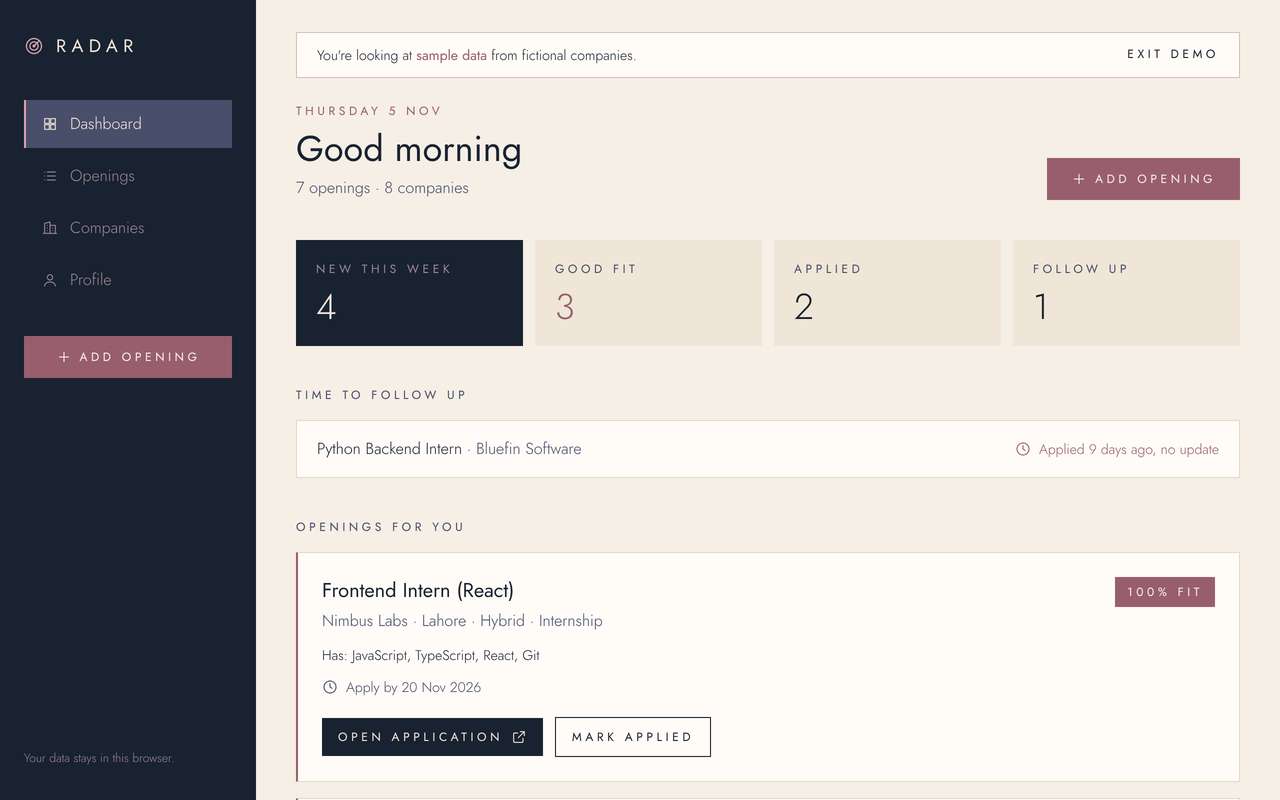
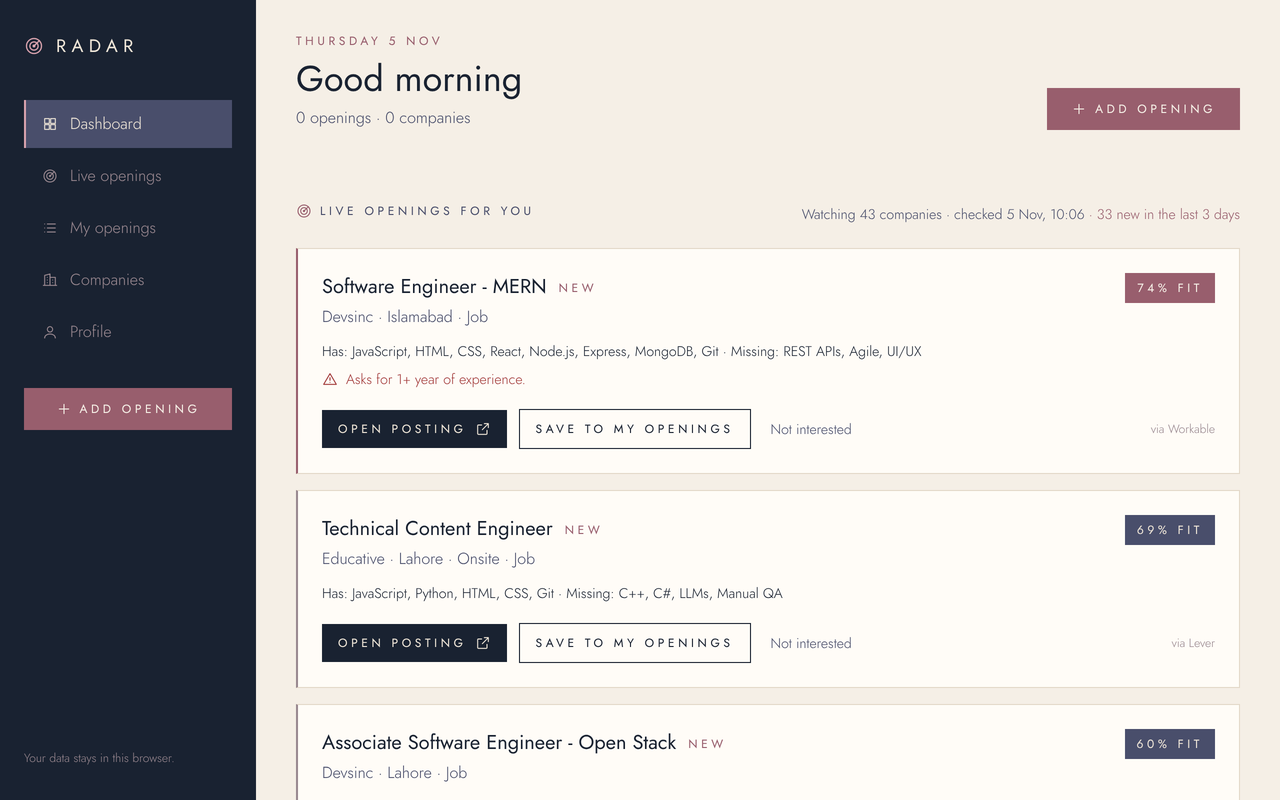
docs: README, home and info pages for live openings; ADR-005; new screenshots
- Home: 'Real openings from Pakistani software houses, and exactly how
  you fit'; See today's openings
- How it works / About describe the watcher, polite checking and limits
- README: what it finds (measured numbers), responsible checking,
  architecture diagram, updated 'deliberately not implemented'
- Dashboard says 'You're tracking N openings' (your tracker, not live)
- Screenshots retaken from the production build with the real feed

diff --git a/src/app/how-it-works/page.tsx b/src/app/how-it-works/page.tsx
@@ -6,20 +6,20 @@ export const metadata = { title: "How it works — Radar" };
 const STEPS = [
   {
     n: "01",
-    title: "Collect",
-    body: "Paste any opening you find: from a company's careers page, an email, or a post someone shared. Radar pulls out the role, internship or job, city, work mode, skills, experience, CGPA, deadline and how to apply.",
-    detail: "Anything the post doesn't say stays empty and shows as “Not stated”. Dates that could mean two things, like 05/11, are flagged for you to check. Image-only ads are saved with their link, and Radar doesn't pretend to read them.",
+    title: "Watch",
+    body: "Every morning at about 6am, Radar visits each software house on its list. When a company publishes its jobs through a hiring platform with an open feed (Workable, Greenhouse, Lever and similar), Radar reads the openings directly: real titles, cities and apply links.",
+    detail: "For companies with a plain careers page, Radar watches the page and tells you when it changes, without guessing what changed. It respects each site's robots.txt, identifies itself honestly, and never touches LinkedIn, Facebook or WhatsApp.",
   },
   {
     n: "02",
     title: "Match",
     body: "Upload your resume once. It's read in your browser, never uploaded, and you confirm the skills it finds. Each opening then gets a fit score with the reasons: what you have, what's missing.",
-    detail: "Eligibility warnings are one line each: graduates only, a minimum CGPA, years of experience, a city you didn't pick. A warning never hides an opening; you decide.",
+    detail: "Eligibility warnings are one line each: graduates only, a minimum CGPA, years of experience, a senior role, a city you didn't pick. A warning never hides an opening; you decide. Found one somewhere else? Paste it and it's scored the same way.",
   },
   {
     n: "03",
     title: "Track",
-    body: "Open the real application or your email app with one click: Radar never applies for you. Then move each opening from Saved to Applied, Interview and Offer or Rejected.",
+    body: "Save the openings you want. Open the real application with one click, since Radar never applies for you, then move each one from Saved to Applied, Interview and Offer or Rejected.",
     detail: "Every change is dated. Notes keep contacts and interview prep together, and Radar nudges you when an application has had no update for a week. Export everything to a spreadsheet at any time.",
   },
 ];
@@ -27,7 +27,7 @@ const STEPS = [
 export default function HowItWorksPage() {
   return (
     <main className="flex flex-1 flex-col">
-      <SiteHero label="How it works" title="Three steps," accent="no scraping, no bots." />
+      <SiteHero label="How it works" title="Three steps," accent="no LinkedIn, no bots applying for you." />
       <section className="flex-1 bg-beige">
         <ol className="mx-auto max-w-6xl divide-y divide-line px-6 sm:px-10">
           {STEPS.map((s) => (
@@ -42,8 +42,8 @@ export default function HowItWorksPage() {
           ))}
         </ol>
         <div className="mx-auto flex max-w-6xl flex-wrap gap-4 px-6 pb-16 sm:px-10">
-          <Link href="/demo" className="label-caps bg-sunset px-8 py-4 text-sand hover:bg-sunset/85">Try the demo</Link>
-          <Link href="/openings/new" className="label-caps border border-evening px-8 py-4 hover:bg-evening hover:text-beige">Add your first opening</Link>
+          <Link href="/live" className="label-caps bg-sunset px-8 py-4 text-sand hover:bg-sunset/85">See today&apos;s openings</Link>
+          <Link href="/profile" className="label-caps border border-evening px-8 py-4 hover:bg-evening hover:text-beige">Upload your resume</Link>
         </div>
       </section>
       <SiteFooter />

diff --git a/src/app/page.tsx b/src/app/page.tsx
@@ -6,8 +6,8 @@ import { ShieldIcon, UploadIcon } from "@/components/icons";
 const STEPS = [
   {
     n: "01",
-    title: "Collect",
-    body: "Paste any opening you find on a company's careers page. Radar pulls out the role, skills, deadline and how to apply.",
+    title: "Watch",
+    body: "Every morning Radar checks Pakistani software houses' public job feeds and careers pages, and tells you what's new or changed.",
   },
   {
     n: "02",
@@ -33,12 +33,12 @@ export default function LandingPage() {
             <div>
               <p className="label-caps text-cloud">For CS students in Pakistan</p>
               <h1 className="mt-6 text-5xl leading-[1.1] font-normal sm:text-6xl">
-                Every opening you find,{" "}
+                Real openings from Pakistani software houses,{" "}
                 <em className="font-accent text-rose">and exactly how you fit.</em>
               </h1>
               <p className="mt-8 max-w-xl text-lg leading-relaxed text-beige/85">
-                Radar reads the internships and jobs you collect from software houses, scores each one against your
-                resume, tells you why, and keeps track of every application.
+                Radar checks software houses every morning, scores each new opening against your resume, tells you
+                why, and keeps track of every application, including ones you find yourself.
               </p>
               <div className="mt-8 flex flex-wrap gap-4">
                 <Link
@@ -48,14 +48,14 @@ export default function LandingPage() {
                   <UploadIcon /> Upload your resume
                 </Link>
                 <Link
-                  href="/demo"
+                  href="/live"
                   className="label-caps inline-flex items-center border border-beige/70 px-8 py-4 transition-colors hover:bg-beige hover:text-evening"
                 >
-                  Try the demo
+                  See today&apos;s openings
                 </Link>
               </div>
               <p className="mt-6 flex items-center gap-2 text-sm text-cloud">
-                <ShieldIcon /> Your resume never leaves your browser. You always apply yourself.
+                <ShieldIcon /> Your resume never leaves your browser. No LinkedIn scraping. You always apply yourself.
               </p>
             </div>
             <RadarGraphic />

diff --git a/src/app/about/page.tsx b/src/app/about/page.tsx
@@ -6,7 +6,7 @@ const PROMISES = [
   ["Your data stays with you", "Your resume, profile and applications are saved in this browser only. There's no account and no server copy. Clear it any time."],
   ["You always apply yourself", "Radar opens the real application or your email app. It never fills in a form or sends anything in your name."],
   ["It never guesses", "If a post doesn't state something, Radar says so. Unclear dates are flagged instead of trusted."],
-  ["No scraping", "No LinkedIn, Facebook or WhatsApp. You bring the openings; Radar helps you judge and track them."],
+  ["Polite checking", "Once a day per company, robots.txt respected, an honest name in every request, and no LinkedIn, Facebook or WhatsApp."],
 ];
 
 export default function AboutPage() {
@@ -21,9 +21,9 @@ export default function AboutPage() {
             or lose track of where they applied.
           </p>
           <p className="leading-relaxed text-stormy">
-            Radar was built by a CS student to keep every opening in one place, see honestly where they stand, and
-            follow up on time. This version runs entirely in the browser. A later version may also find companies and
-            check their careers pages automatically.
+            Radar was built by a CS student to find those openings, see honestly where you stand, and follow up on time.
+            A small free job checks companies every morning; everything about you stays in your browser. It covers the
+            companies that publish their jobs openly, and you can paste the rest.
           </p>
         </div>
       </section>

diff --git a/src/components/site-header.tsx b/src/components/site-header.tsx
@@ -111,11 +111,11 @@ export function SiteFooter() {
   return (
     <footer className="bg-evening text-cloud">
       <div className="mx-auto flex max-w-6xl flex-wrap items-center justify-between gap-4 px-6 py-8 text-sm sm:px-10">
-        <p>Radar · a student project. Everything you add stays in your browser.</p>
+        <p>Radar · a student project. Openings checked daily; your data stays in your browser.</p>
         <nav aria-label="Footer" className="flex gap-6">
           <Link href="/how-it-works" className="hover:text-beige">How it works</Link>
           <Link href="/about" className="hover:text-beige">About</Link>
-          <Link href="/demo" className="hover:text-beige">Try the demo</Link>
+          <Link href="/live" className="hover:text-beige">Today&apos;s openings</Link>
         </nav>
       </div>
     </footer>

diff --git a/src/app/(app)/dashboard/dashboard-view.tsx b/src/app/(app)/dashboard/dashboard-view.tsx
@@ -66,7 +66,7 @@ function Dashboard({ state }: { state: RadarState }) {
           </p>
           <h1 className="mt-2 text-3xl font-normal sm:text-4xl">{greeting(now)}</h1>
           <p className="mt-2 text-stormy">
-            {state.openings.length} opening{state.openings.length === 1 ? "" : "s"} · {state.companies.length} compan{state.companies.length === 1 ? "y" : "ies"}
+            {state.openings.length === 0 ? "You're not tracking any openings yet." : `You're tracking ${state.openings.length} opening${state.openings.length === 1 ? "" : "s"}.`}
           </p>
         </div>
         <Link href="/openings/new" className="label-caps inline-flex items-center gap-2 bg-sunset px-6 py-3 text-sand hover:bg-sunset/85">

diff --git a/src/app/layout.tsx b/src/app/layout.tsx
@@ -17,9 +17,9 @@ const cormorant = Cormorant_Garamond({
 });
 
 export const metadata: Metadata = {
-  title: "Radar — every opening you find, and how you fit",
+  title: "Radar — real openings from Pakistani software houses, and how you fit",
   description:
-    "Keep the internships and jobs you find in one place, see how well each one fits your resume, and track every application.",
+    "Radar checks Pakistani software houses every morning, scores new openings against your resume, and tracks your applications.",
 };
 
 export default function RootLayout({ children }: LayoutProps<"/">) {

diff --git a/README.md b/README.md
@@ -1,35 +1,45 @@
 # Radar
 
-**Every opening you find, and exactly how you fit.**
+**Real openings from Pakistani software houses, and exactly how you fit.**
 
-Radar is a job tracker for CS students in Pakistan. Paste an internship or job post you found on a software house's careers page, in an email or in a group. Radar reads it, scores it against your resume, explains the score, warns you about eligibility catches, and tracks your application until you hear back.
+Radar checks Pakistani software houses every morning. When a company publishes its jobs openly, Radar brings in the real openings, scores each one against your resume, explains the score, warns you about eligibility catches, and tracks your application until you hear back. Openings you find anywhere else can be pasted in and get the same treatment.
 
-It runs **entirely in your browser**: no account, no server, no database. Your resume is read on your device and never uploaded.
+The website runs **in your browser**: no account, no server, no database. Your resume is read on your device and never uploaded. The daily check is a small free job on GitHub Actions.
 
-**Live demo:** _link added after deployment_ · Click **Try the demo** to load sample data from fictional companies.
+**Live site:** _link added after deployment_
 
-![Dashboard with sample data](docs/screenshots/dashboard.png)
+![Live openings, scored against a resume](docs/screenshots/live.png)
 
 ## Why I built it
 
-Openings at smaller Pakistani software houses are spread across company websites, emails and private WhatsApp/Facebook groups. I kept losing track of which ones I was eligible for, what each asked for, and where I had already applied. Radar is the tool I wanted for that.
+Internships and junior roles at Pakistani software houses are spread across company websites, hiring platforms, emails and private WhatsApp/Facebook groups. I kept missing them, losing track of which ones I was eligible for, and forgetting where I'd applied. Radar is the tool I wanted for that.
 
 ## What it does
 
 | | |
 |---|---|
-| **Read a job post** | Paste the text → title, internship or job, city, onsite/hybrid/remote, skills, years of experience, minimum CGPA, graduates-only, deadline, apply link or email. Anything the post doesn't say is shown as **"Not stated"**, never guessed. |
-| **Fit score with reasons** | "83% fit · Has: React, Tailwind CSS, JavaScript · Missing: Figma". Score = 70 for skills you have + 15 for internship/job match + 15 for experience. |
-| **Eligibility warnings** | One line each: graduates only, a CGPA above yours, years of experience, a city you didn't pick, onsite when you want remote, an unclear or passed deadline. Warnings never hide an opening. |
-| **Resume → skills** | Upload a PDF; skills are detected and you confirm, remove or add them. Scanned, password-protected or damaged PDFs get a clear message and manual entry. |
-| **Tracker** | Saved → Applied → Interview → Offer / Rejected, plus Missed. Every change is dated, notes are kept per opening, and you get a nudge after 7 days with no update. Past deadlines move to Missed. |
-| **Dashboard** | New this week, good fits, applied, follow-ups, best-fit openings and the companies you watch. |
-| **Openings list** | Search plus combined filters (city, work mode, type, fit, status, new this week), sorting, and **CSV export** that opens in Excel. |
-| **Companies** | Add by hand, edit (including your own careers-page link), remove, or **import a CSV**: bad rows are listed with the reason, duplicates are skipped, and BPOs, call centres and marketing-only firms are filtered out. |
+| **Live openings, checked every morning** | A watcher visits each company on the list. If the company publishes jobs through a hiring platform with an open feed (Workable, Greenhouse, Lever, Ashby…), Radar reads the openings directly: real titles, cities and apply links. It keeps tech roles in Pakistan or open-remote. |
+| **Careers-page alerts** | For companies with a plain careers page, Radar watches the page and tells you when it changes ("Folio3's careers page changed. Have a look"). It doesn't guess what the new jobs are. |
+| **Fit score with reasons** | "74% fit · Has: React, Node.js, Express, MongoDB · Missing: REST APIs". Senior, lead and manager roles are capped at a low fit, because they aren't realistic for a student. |
+| **Eligibility warnings** | One line each: graduates only, a CGPA above yours, years of experience, a senior role, a city you didn't pick, onsite when you want remote, an unclear or passed deadline. Warnings never hide an opening. |
+| **Resume → skills** | Upload a PDF; skills are detected in your browser and you confirm, remove or add them. Scanned, password-protected or damaged PDFs get a clear message and manual entry. |
+| **Paste anything else** | Found an opening on LinkedIn or in a group? Paste it. Radar reads the title, type, city, skills, experience, CGPA, deadline and how to apply, shows **"Not stated"** for anything missing, and flags dates that could mean two things (05/11). |
+| **Tracker** | Saved → Applied → Interview → Offer / Rejected, plus Missed. Every change is dated, notes are kept per opening, you get a nudge after 7 days with no reply, and past deadlines move to Missed. |
+| **Filters and export** | Search plus combined filters, an entry-level-only switch, hide openings you're not interested in (with undo), and a CSV export that's safe to open in Excel. |
 
-| Paste a post | Opening detail and tracker | On a phone |
+| Dashboard | Watched companies | On a phone |
 |---|---|---|
-| ![Add opening](docs/screenshots/add-opening.png) | ![Opening detail](docs/screenshots/detail.png) | ![Phone dashboard](docs/screenshots/phone-dashboard.png) |
+| ![Dashboard](docs/screenshots/dashboard.png) | ![Companies checked every morning](docs/screenshots/companies.png) | ![Live openings on a phone](docs/screenshots/phone-live.png) |
+
+## How much it finds (measured, 5 Nov 2026)
+
+I tested this before building it ([`docs/coverage/results.md`](docs/coverage/results.md)). Of **43** Pakistani software houses:
+
+- **3** publish their jobs through an open hiring-platform feed (Devsinc on Workable, Motive on Greenhouse, Educative on Lever). On the first day they gave **50 openings, 33 of them tech roles in Pakistan or open-remote**, including entry-level and associate roles.
+- **34** have a careers page Radar watches for changes.
+- **4** have no careers information online, and **2** couldn't be checked (one blocks automated visitors).
+
+So Radar doesn't see every opening in Pakistan. Many companies only post on LinkedIn or in groups, which Radar deliberately doesn't scrape. It reliably catches what's published openly, alerts you when the other careers pages change, and anything else can be pasted in. Each company added to the list is checked from the next morning.
 
 ## Run it locally
 
@@ -42,70 +52,92 @@ npm ci          # installs the exact versions in package-lock.json
 npm run dev     # http://localhost:3000
 ```
 
-The first run downloads two Google Fonts once (needs internet). Then open the app and click **Try the demo**, or go to **Profile** and upload your resume.
+The first run downloads two Google Fonts once (needs internet). The live openings in `public/feed/` are the latest ones the watcher saved to the repo. To run the watcher yourself: `node scripts/watcher/watch.mjs` (about a minute).
 
 | Command | What it does |
 |---|---|
-| `npm test` | 112 unit tests (Vitest): reading posts, dates, fit score, CSV import/export, storage, validation |
-| `npm run test:e2e` | 21 page tests in Chromium at desktop and phone size (Playwright). First time: `npx playwright install chromium` |
+| `npm test` | 140 unit tests (Vitest): watcher parsing and filters, robots.txt, change detection, reading posts, dates, fit score, CSV import/export, storage |
+| `npm run test:e2e` | 33 page tests in Chromium at desktop and phone size (Playwright), using a fixed copy of the feed. First time: `npx playwright install chromium` |
 | `npm run lint` | ESLint |
 | `npm run build` | Production build (also type-checks) |
 
-Every push runs lint, unit tests, the build and the page tests on GitHub Actions (`.github/workflows/ci.yml`).
+GitHub Actions runs two workflows: **CI** on every push (lint, unit tests, build, page tests) and the **Daily watcher** every morning at 06:17 Pakistan time.
 
 ## How it's built
 
-**Stack:** Next.js 16 (App Router, TypeScript) · React 19 · Tailwind CSS 4 · Zod · unpdf (pdf.js) · chrono-node · Vitest · Playwright. Every version is pinned; see [`docs/DEPENDENCIES.md`](docs/DEPENDENCIES.md) for why each one was chosen and its vulnerability scan.
+**Stack:** Next.js 16 (App Router, TypeScript) · React 19 · Tailwind CSS 4 · Zod · unpdf (pdf.js) · chrono-node · Vitest · Playwright · GitHub Actions. Every version is pinned; [`docs/DEPENDENCIES.md`](docs/DEPENDENCIES.md) explains each one and its vulnerability scan.
 
 ```
+data/companies.json      the companies the watcher checks
+scripts/watcher/         the daily watcher (plain Node, no dependencies) + its tests
+public/feed/             what the watcher found: openings.json, companies.json
 src/
-  app/            pages: home, how-it-works, about, dashboard, openings, openings/new,
-                  openings/detail, companies, profile, demo
-  components/     shared UI: navigation, opening card, fit badge, form field, data gate
+  app/                   pages: home, how-it-works, about, dashboard, live, openings,
+                         openings/new, openings/detail, companies, profile, demo
+  components/            navigation, live card, opening card, fit badge, form field, data gate
   lib/
-    data/         schema (Zod), repository (localStorage), store (React hook), demo data
-    openings/     extract (read a post), match (fit + warnings), tracker, filter, export
-    companies/    CSV import, add/edit/remove
-    resume/       PDF → text → skills
-    skills/       skills dictionary + detector
+    feed/                load + validate the watcher's files, convert, save/hide
+    data/                schema (Zod), repository (localStorage), store (React hook), demo data
+    openings/            read a post, fit + warnings, tracker, filters, CSV export
+    companies/           CSV import, add/edit/remove
+    resume/, skills/     PDF → text → skills
 ```
 
-- **Logic is separate from UI.** Everything in `src/lib` is a plain function with tests: give it state, get new state back. Components only display and call these.
-- **One door to the data.** All reads and writes go through `RadarRepository` (`src/lib/data/repository.ts`). Today it's localStorage; a server version could replace it without touching any component.
-- **Stored data is never trusted.** Every load is checked against a Zod schema. Damaged or hand-edited data shows a clear error with a "Start fresh" option instead of crashing.
-- **Shared state without a library.** `useRadar()` is built on React's `useSyncExternalStore`, so every component updates together, even across open tabs.
+```
+ GitHub Actions (06:17 daily)                         Your browser
+ ┌──────────────────────────────┐   commits   ┌─────────────────────────────────┐
+ │ scripts/watcher/watch.mjs    │ ──────────▶ │ /feed/openings.json  ─┐         │
+ │  · robots.txt, honest agent  │ public/feed │ /feed/companies.json  ├─ Zod ─▶ │
+ │  · hiring-platform feeds     │  (Vercel    │                        │  fit    │
+ │  · careers-page fingerprints │  redeploys) │ your profile, saved ───┘  score  │
+ └──────────────────────────────┘             │ openings (localStorage)          │
+                                              └─────────────────────────────────┘
+```
+
+- **Logic is separate from UI.** Everything in `src/lib` and `scripts/watcher/lib.mjs` is plain functions with tests. Components only display and call them.
+- **One door to your data.** All reads and writes go through `RadarRepository` (`src/lib/data/repository.ts`, localStorage today), so a server could replace it without touching components.
+- **Nothing read from outside is trusted.** Stored data and the watcher's files are checked with Zod on every load. A damaged or tampered file shows a clear error ("Start fresh", "Try again") instead of bad data.
+- **The watcher can't take the site down.** One company failing never stops the others, and if the run crashes, what was already checked is still saved. A site that can't be reached three days running is flagged "check the link".
+
+### Responsible checking
+
+- `robots.txt` is read for every site and respected; if a site asks automated tools to stay away, Radar does and says so.
+- Each request names Radar and links to this repo. There's a pause between requests to the same site, and each company is checked once a day.
+- Hiring platforms are read through their **official public job feeds**, the same data their own careers pages show.
+- No logins, no getting around blocks, and no LinkedIn, Indeed, Facebook or WhatsApp.
 
 ### Security and privacy
 
-- **Pasted posts are untrusted.** They're rendered as plain text (React escapes them); a `<script>` in a post shows up as text and never runs (tested). Only `http(s)` links are kept, so `javascript:` links are rejected.
-- **CSV injection.** On export, cells starting with `=`, `+`, `-`, `@`, tab or CR get a leading apostrophe, so a malicious post can't plant an Excel formula.
-- **Validation everywhere.** Every form and every stored value goes through a strict Zod schema: invalid input is rejected with a message, never silently "fixed".
-- **Privacy.** No server, no analytics, no account. The resume PDF is read in the browser and discarded; only the skills you confirm are saved.
+- **Text from outside is untrusted.** Job descriptions and pasted posts are rendered as plain text (React escapes them): a `<script>` in a post shows as text and never runs (tested). Only `http(s)` links are kept.
+- **CSV injection.** Exported cells starting with `=`, `+`, `-`, `@`, tab or CR get a leading apostrophe, so a malicious post can't plant an Excel formula.
+- **Validation everywhere.** Every form, every stored value and every feed file goes through a strict Zod schema: invalid input is rejected with a message, not silently fixed.
+- **Privacy.** No server, no analytics, no account. Your resume is read in your browser and discarded; only the skills you confirm are saved.
 
 ### Accessibility
 
-Keyboard-usable throughout, with a "Skip to content" link, visible focus outlines, labelled form fields with error messages next to them, `aria-current` on navigation, `aria-live` status messages, the radar animation turned off for reduced motion, and layouts tested at 375 px and 1280 px.
+Keyboard-usable throughout, with a "Skip to content" link, visible focus outlines, labelled form fields with error messages next to them, `aria-current` on navigation, `aria-live` status messages (saved, hidden, undo), the radar animation turned off for reduced motion, and layouts tested at 375 px and 1280 px.
 
 ## Deliberately not implemented
 
 | Not built | Why |
 |---|---|
-| **Finding companies and openings automatically** (directory import, careers-page finder, daily checks) | That's backend work: crawling sites, respecting robots.txt, scheduled jobs. This is a frontend project, so you bring the openings. The full plan is in [`docs/PRD.md`](docs/PRD.md) for a later version. |
-| **LinkedIn, Indeed, Facebook or WhatsApp integration** | No public job APIs, and their terms prohibit scraping and bots. |
-| **Auto-filling or auto-submitting applications** | Every form is different, many have CAPTCHAs, and a wrong application sent in your name can't be taken back. Radar opens the real application; you apply yourself. |
-| **Reading image or PDF job ads (OCR)** | Adds errors and complexity. Image ads are saved with their link and shown as "Fit unknown". |
-| **AI extraction** | Would need a paid API key and could invent details. The rules-based reader says "Not stated" instead of guessing. |
-| **Accounts and sync between devices** | Would need a server and storing personal data. Everything stays in one browser; export to CSV to back up. |
-| **Excel (.xlsx) export** | CSV opens in Excel and needs no extra library. |
-| **Merging duplicate openings** | Rare when you add openings yourself; a duplicate simply shows twice. |
-| **Email or push notifications** | The dashboard's follow-up list covers it for v1. |
+| **LinkedIn, Indeed, Facebook or WhatsApp** | No public job APIs, and their terms prohibit scraping and bots. Paste those openings instead. |
+| **Guessing jobs from plain careers pages** | Every site is laid out differently and guesses would be wrong. Radar alerts you when a page changes and shows the role names it spotted as a hint. |
+| **Automatic company discovery** (PSEB directory, Google Places) | PSEB's terms for automated use are unclear, and Google Places needs a paid account. The list is curated, and adding a company is one line. |
+| **Auto-filling or auto-submitting applications** | Every form is different, many have CAPTCHAs, and a wrong application sent in your name can't be taken back. Radar opens the real posting; you apply yourself. |
+| **Reading image or PDF job ads (OCR)** | Adds errors. Pages with an image job ad are flagged instead. |
+| **AI extraction** | Would need a paid API key and could invent details. The rules say "Not stated" instead of guessing. |
+| **Accounts and sync between devices** | Would need a server holding personal data. Your data stays in one browser; export to CSV to back up. |
+| **Email or push notifications** | The dashboard's "new", "changed" and "follow up" lists cover it for v1. |
+| **Excel (.xlsx) export, merging duplicate openings** | CSV opens in Excel; duplicates are rare and simply show twice. |
 
 ## Known limitations
 
-- Data lives in one browser. Clearing site data or switching devices starts fresh; use **Export CSV** as a backup.
-- The post reader uses rules, not AI. Unusual layouts may need a few fields filled in by hand on the "Check the details" step.
-- Dates are read day-first (20/11 = 20 November). Dates that could mean two things, like 05/11, are flagged for you to check.
+- Coverage depends on companies publishing jobs openly (see the numbers above).
+- Your saved data lives in one browser. Clearing site data or switching devices starts fresh; use **Export CSV** as a backup.
+- Fit scores come from a skills dictionary, not AI. A post that names few skills gets a cautious score.
+- Dates are read day-first (20/11 = 20 November). Dates that could mean two things are flagged for you to check.
 
 ## Project notes
 
-Decisions, risks and progress are in [`docs/`](docs/): [`PRD.md`](docs/PRD.md) (full product plan; §14 is this version), [`DECISIONS.md`](docs/DECISIONS.md), [`RISKS.md`](docs/RISKS.md), [`PROJECT_STATE.md`](docs/PROJECT_STATE.md). The commit history shows the build step by step.
+[`docs/`](docs/) holds the product plan ([`PRD.md`](docs/PRD.md)), decisions ([`DECISIONS.md`](docs/DECISIONS.md)), risks, the coverage check ([`coverage/results.md`](docs/coverage/results.md)) and progress ([`PROJECT_STATE.md`](docs/PROJECT_STATE.md)). The commit history shows the build step by step, including the moment the project changed course from paste-only to live openings.

diff --git a/docs/PROJECT_STATE.md b/docs/PROJECT_STATE.md
@@ -3,7 +3,7 @@
 - **Phase:** 5 — Development · **Mode:** Lite (SDLC blueprint)
 - **Stack:** Next.js 16.4.3 + Tailwind 4.3.3, browser-only (localStorage + Zod), unpdf in the browser, chrono-node — ADR-001
 - **Hosting:** Vercel Hobby (free, static)
-- **Scope:** PRD §14. Free-only rule. Backend features live in the `Radar` repo for later.
+- **Scope:** PRD §14 + live openings from a daily watcher (ADR-005). Free-only rule.
 - **Next action:** owner imports the repo into Vercel (free Hobby plan), then add the live URL to the README and record a short demo video.
 - **Last updated:** 2026-11-05
 
@@ -19,9 +19,11 @@
 | F6 | Openings list: combined filters, CSV export | Done |
 | F7 | Opening detail: tracker, dates, notes, 7-day nudge | Done |
 | F8 | Polish (a11y, states), Playwright tests, CI, README, deploy | Done except deploy (needs the owner's Vercel account) |
+| L1 | Coverage check of 45 companies | Done (docs/coverage) |
+| L2 | Daily watcher on GitHub Actions + live openings UI | Done |
 
 ## Checks at last update (2026-11-05)
-112 unit tests + 21 Playwright page tests (desktop + phone) pass · lint and production build clean · CI on every push.
+140 unit tests + 33 Playwright page tests (desktop + phone) pass · lint and production build clean · CI on every push · daily watcher running (43 companies, 33 live openings on day one).
 
 ## Gate log
 | Gate | Date | Result | Notes |

diff --git a/docs/DECISIONS.md b/docs/DECISIONS.md
@@ -21,3 +21,9 @@
 ## ADR-004: Shared code copied from the Radar repo
 - **Date:** 2026-11-04 · **Status:** Accepted
 - The design system, landing page, skill detector and resume reader were written first in `TechnicalSamia18/Radar` and copied here with their tests, then adapted to run in the browser.
+
+## ADR-005: Live openings from a daily watcher (still no server)
+- **Date:** 2026-11-05 · **Status:** Accepted [USER]
+- **Context:** the paste-only version didn't solve the real problem (finding openings). A coverage check of 45 companies (docs/coverage/results.md) showed public hiring-platform feeds give clean, real openings; plain careers pages are too varied to parse reliably.
+- **Decision:** a dependency-free Node watcher runs daily on GitHub Actions, reads public job feeds, fingerprints plain careers pages to detect changes, and commits `public/feed/*.json`. The website reads those files and scores them in the browser. The watcher's commits are authored by github-actions[bot].
+- **Consequences:** still free and serverless; coverage limited to companies that publish openly (3 of 43 feeds on day one, 33 relevant openings); careers-page companies give "changed" alerts, not parsed jobs. Fit score gained a seniority cap and a thin-evidence discount after real data ranked a lead role first.
